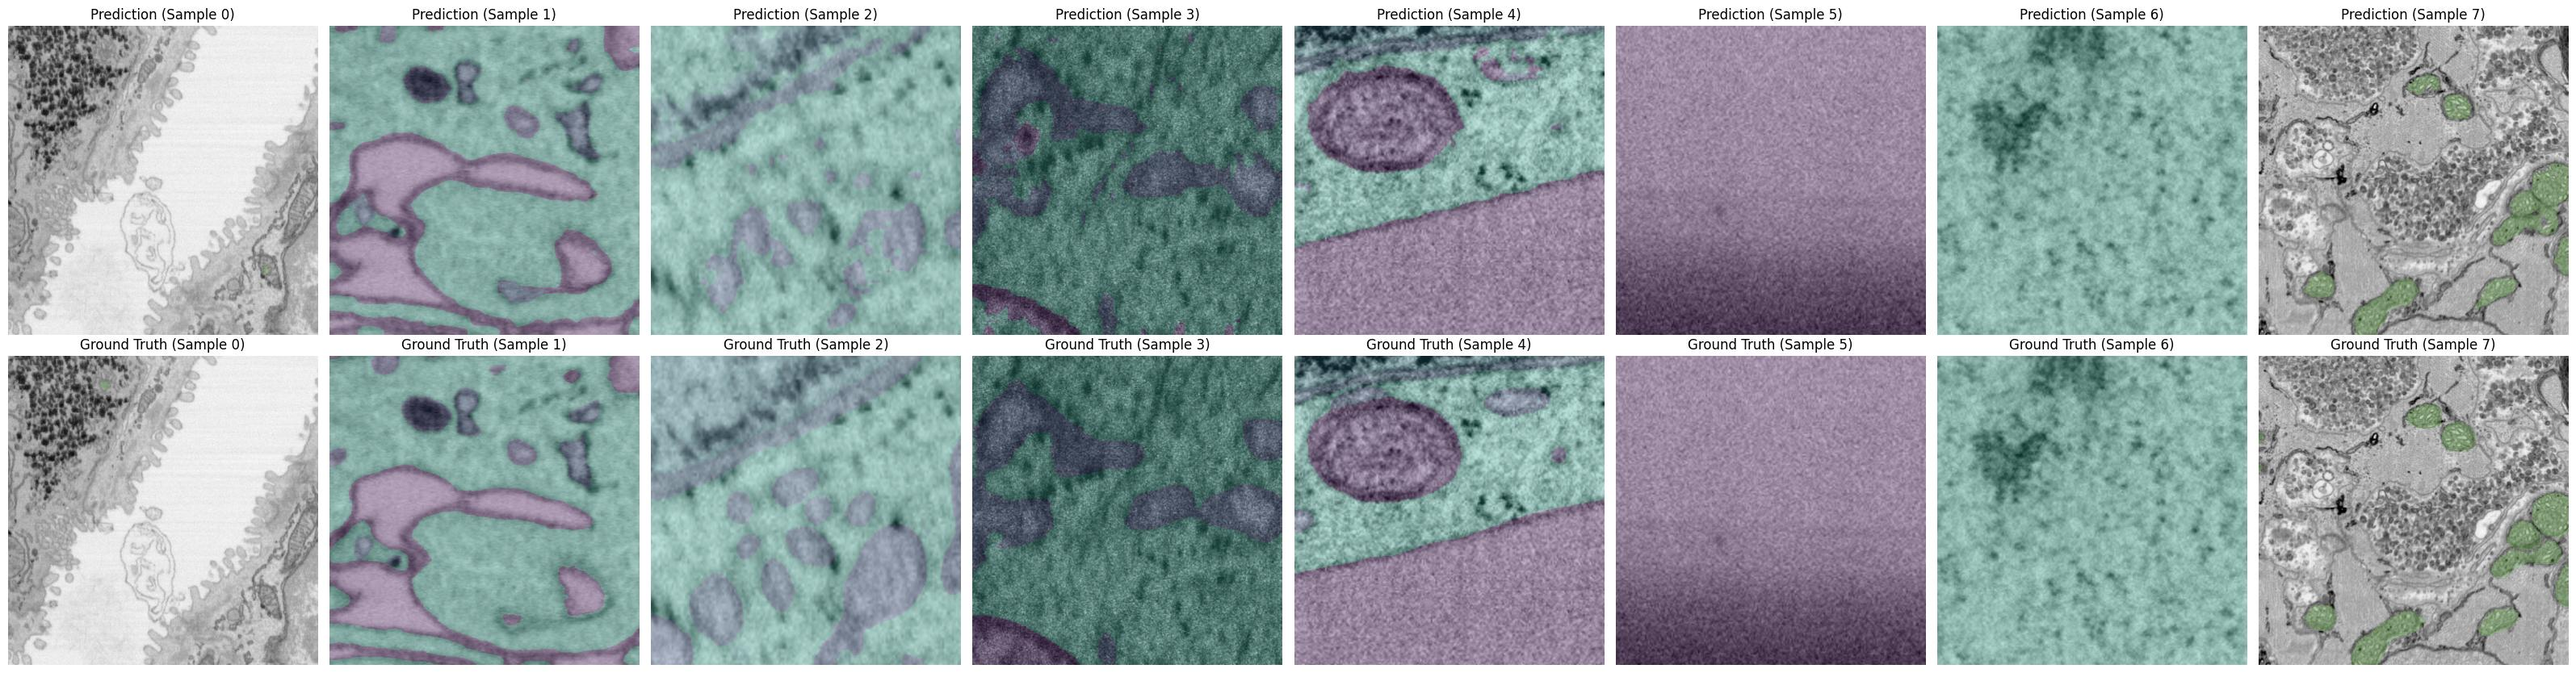
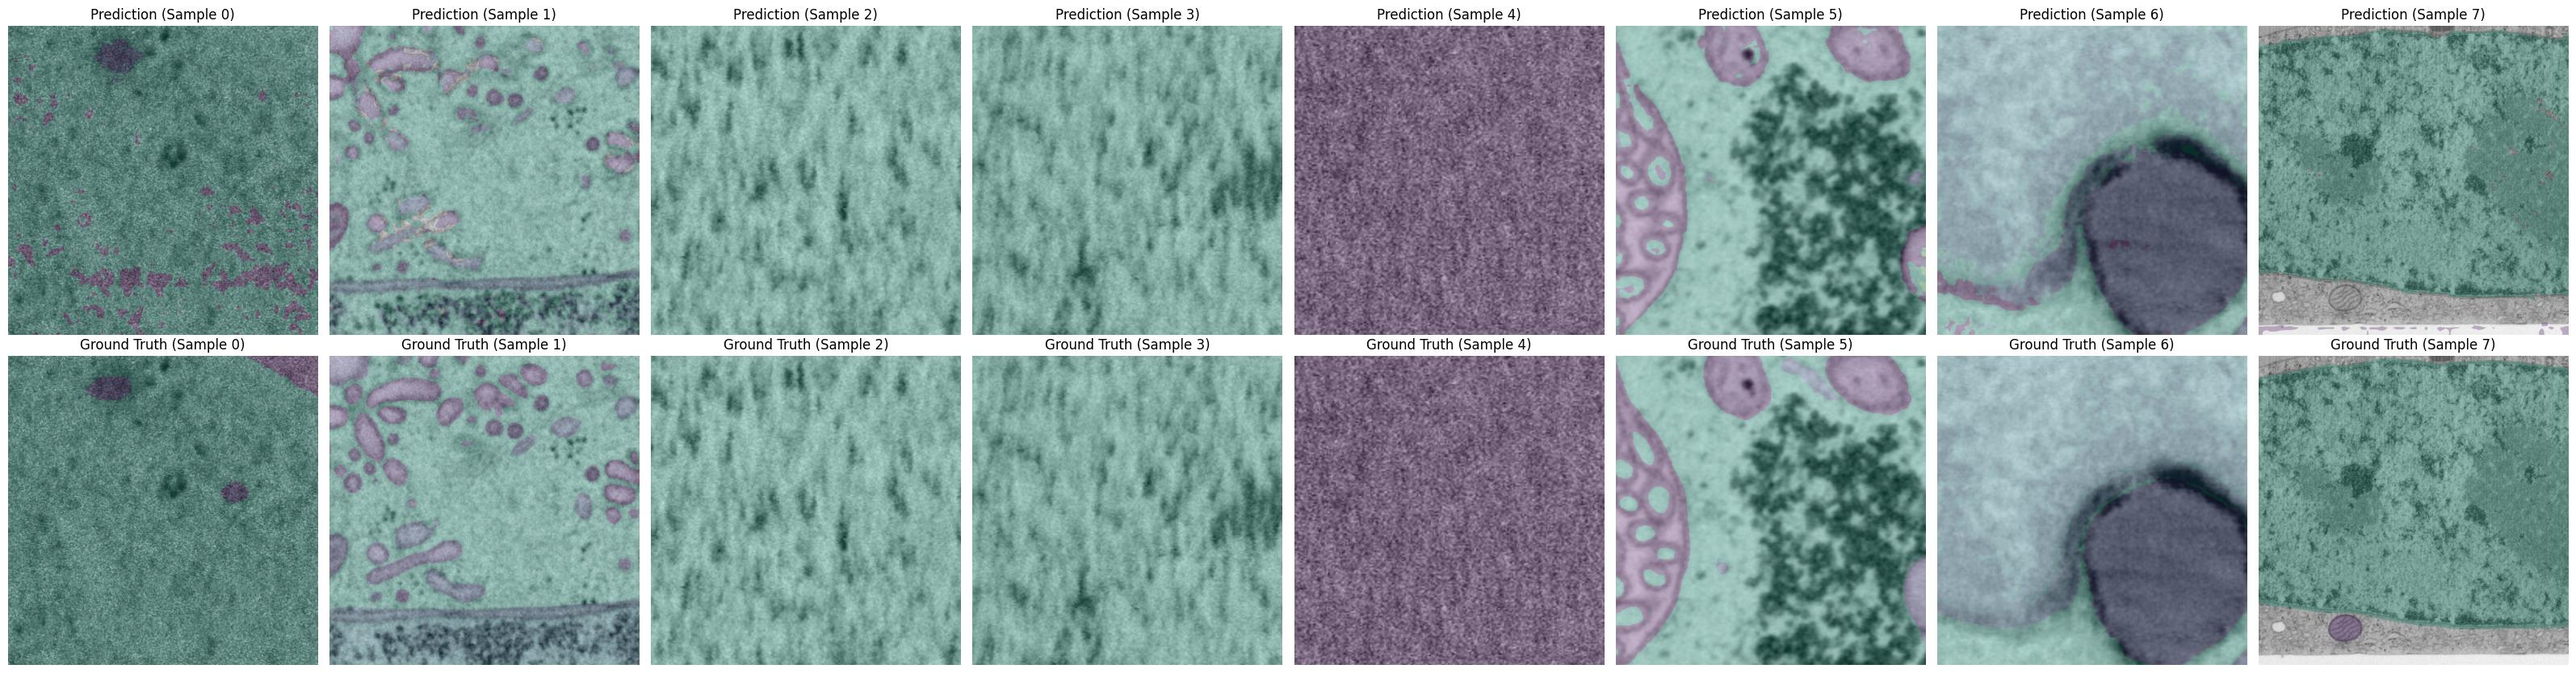
change cmap: viridis -> gist_ncar

diff --git a/train_segmentation.py b/train_segmentation.py
@@ -67,7 +67,7 @@ def visualize_slices(
 
     # 4. Create a consistent colormap for all classes
     # We create N distinct colors. Class 0 (background) is made fully transparent.
-    colors = plt.cm.get_cmap('viridis', num_classes)
+    colors = plt.cm.get_cmap('gist_ncar', num_classes)
     new_colors = colors(np.linspace(0, 1, num_classes))
     new_colors[0, :] = np.array([0, 0, 0, 0])  # Set background class (index 0) to transparent
     custom_cmap = ListedColormap(new_colors)
@@ -129,7 +129,7 @@ def visualize_slices_2d(
     pred_masks = torch.argmax(preds, dim=1)  # Shape: (B, H, W)
 
     # 3. Create a consistent colormap for all classes
-    colors = plt.cm.get_cmap('viridis', num_classes)
+    colors = plt.cm.get_cmap('gist_ncar', num_classes)
     new_colors = colors(np.linspace(0, 1, num_classes))
     new_colors[0, :] = np.array([0, 0, 0, 0])
     custom_cmap = ListedColormap(new_colors)
